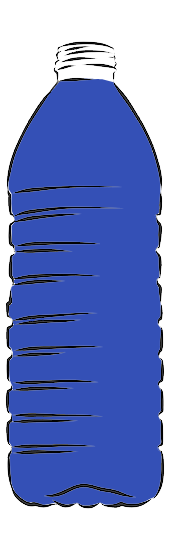
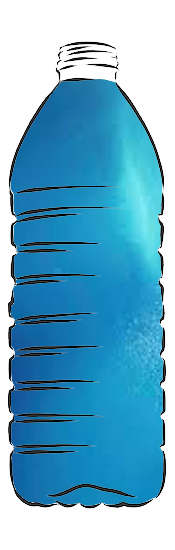
Partial bottle added

diff --git a/src/pages/HomePage/HomePage.jsx b/src/pages/HomePage/HomePage.jsx
@@ -8,6 +8,7 @@ import Bottle from "../../components/Bottle/Bottle";
 import ShotGlass from "../../components/ShotGlass/ShotGlass";
 import Bathtub from "../../components/Bathtub/Bathtub";
 import PartialShotGlass from "../../components/ShotGlass/PartialShotGlass";
+import PartialBottle from "../../components/Bottle/PartialBottle";
 
 const HomePage = () => {
   const [user, token] = useAuth();
@@ -68,11 +69,16 @@ const HomePage = () => {
       setOutputVolumeTitle("bottle")
     }
     else if(standardizedVolume > bottleVolume){
-      convertedVolume = standardizedVolume/bottleVolume
+      convertedVolume = Math.round((standardizedVolume/bottleVolume)*100)/100
       roundedVolume = Math.trunc(convertedVolume)
       percentLeftover = Math.round((convertedVolume-roundedVolume)*100)
       setVisualizationCount(roundedVolume)
       setOutputVolumeTitle("bottles")
+    }
+    else if (standardizedVolume == shotGlassVolume){
+      convertedVolume = standardizedVolume/shotGlassVolume
+      setVisualizationCount(convertedVolume)
+      setOutputVolumeTitle("shot glass")
     }
     else{
       convertedVolume = Math.round((standardizedVolume/shotGlassVolume)*100)/100
@@ -81,7 +87,6 @@ const HomePage = () => {
       setVisualizationCount(roundedVolume)
       setOutputVolumeTitle("shot glasses")
     }
-    console.log("%", percentLeftover)
     setPercentageVisualization(percentLeftover)
     setOutputVolume(convertedVolume)
   }
@@ -96,11 +101,17 @@ const HomePage = () => {
       case "bottle":
       case "bottles":
         visualizationElement = Array.from(Array(visualizationCount)).map((_, index) => <Bottle key={index}/>)
+        if(percentageVisualization != 0){
+          visualizationOfPercentage = <PartialBottle percent={percentageVisualization}/>
+        }
+        visualizationElement.push(visualizationOfPercentage)
         break;
+      case "shot glass":
       case "shot glasses":
         visualizationElement = Array.from(Array(visualizationCount)).map((_, index) => <ShotGlass key={index}/>)
-        visualizationOfPercentage = <PartialShotGlass percent={percentageVisualization}/>
-        console.log(percentageVisualization)
+        if(percentageVisualization != 0){
+          visualizationOfPercentage = <PartialShotGlass percent={percentageVisualization}/>
+        }
         visualizationElement.push(visualizationOfPercentage)
         break;
       }

diff --git a/src/components/Bottle/PartialBottle.jsx b/src/components/Bottle/PartialBottle.jsx
@@ -1,0 +1,18 @@
+import bottle from "../../images/empty-bottle.png"
+import liquid from "../../images/bottle-water.png"
+
+import "./PartialBottle.css"
+
+const PartialBottle = ({percent}) => {
+    const fillPercent = `${100 - percent}%`
+
+    const clipPath = `inset(${fillPercent} 0% 0% 0%)`
+    return ( 
+        <div className="bottle-container">
+            <img className="partial-bottle" src={bottle} alt="" />
+            <img style={{clipPath: clipPath}} className="bottle-fluid" src={liquid} alt="" />
+        </div>
+     );
+}
+ 
+export default PartialBottle;

diff --git a/src/components/ShotGlass/PartialShotGlass.css b/src/components/ShotGlass/PartialShotGlass.css
@@ -1,11 +1,7 @@
-.shot-glass-container{
-
-}
 .shot-glass{
     position: absolute;
     height: 150px;
 }
 .shot-glass-fluid{
     height: 115px;
-    clip-path: inset(30% 0% 0% 0%);
 } 

diff --git a/src/components/Bottle/PartialBottle.css b/src/components/Bottle/PartialBottle.css
@@ -1,0 +1,9 @@
+.partial-bottle{
+    position: absolute;
+    height: 150px;
+    z-index: 2;
+
+}
+.bottle-fluid{
+    height: 150px;
+}
